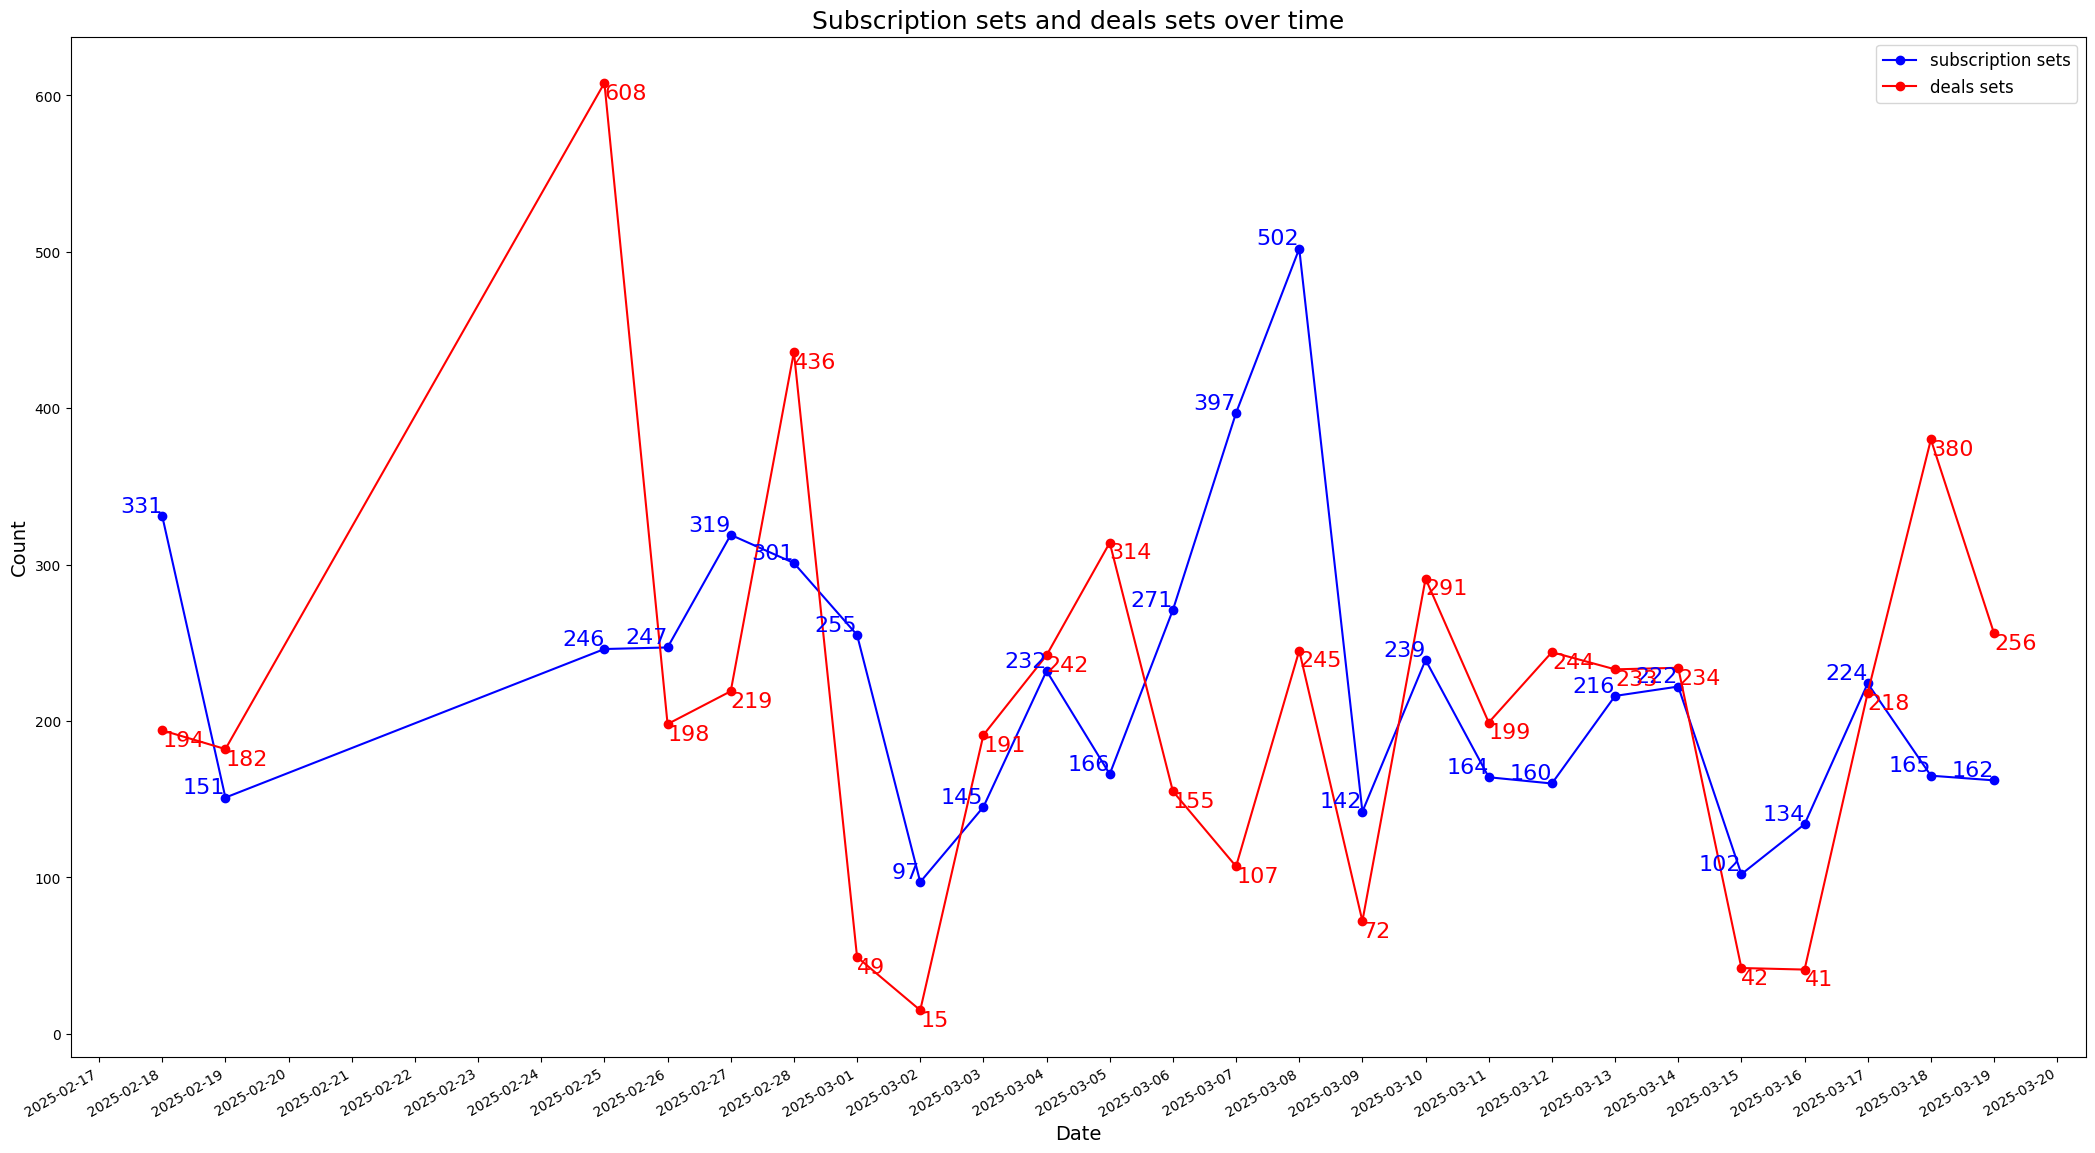
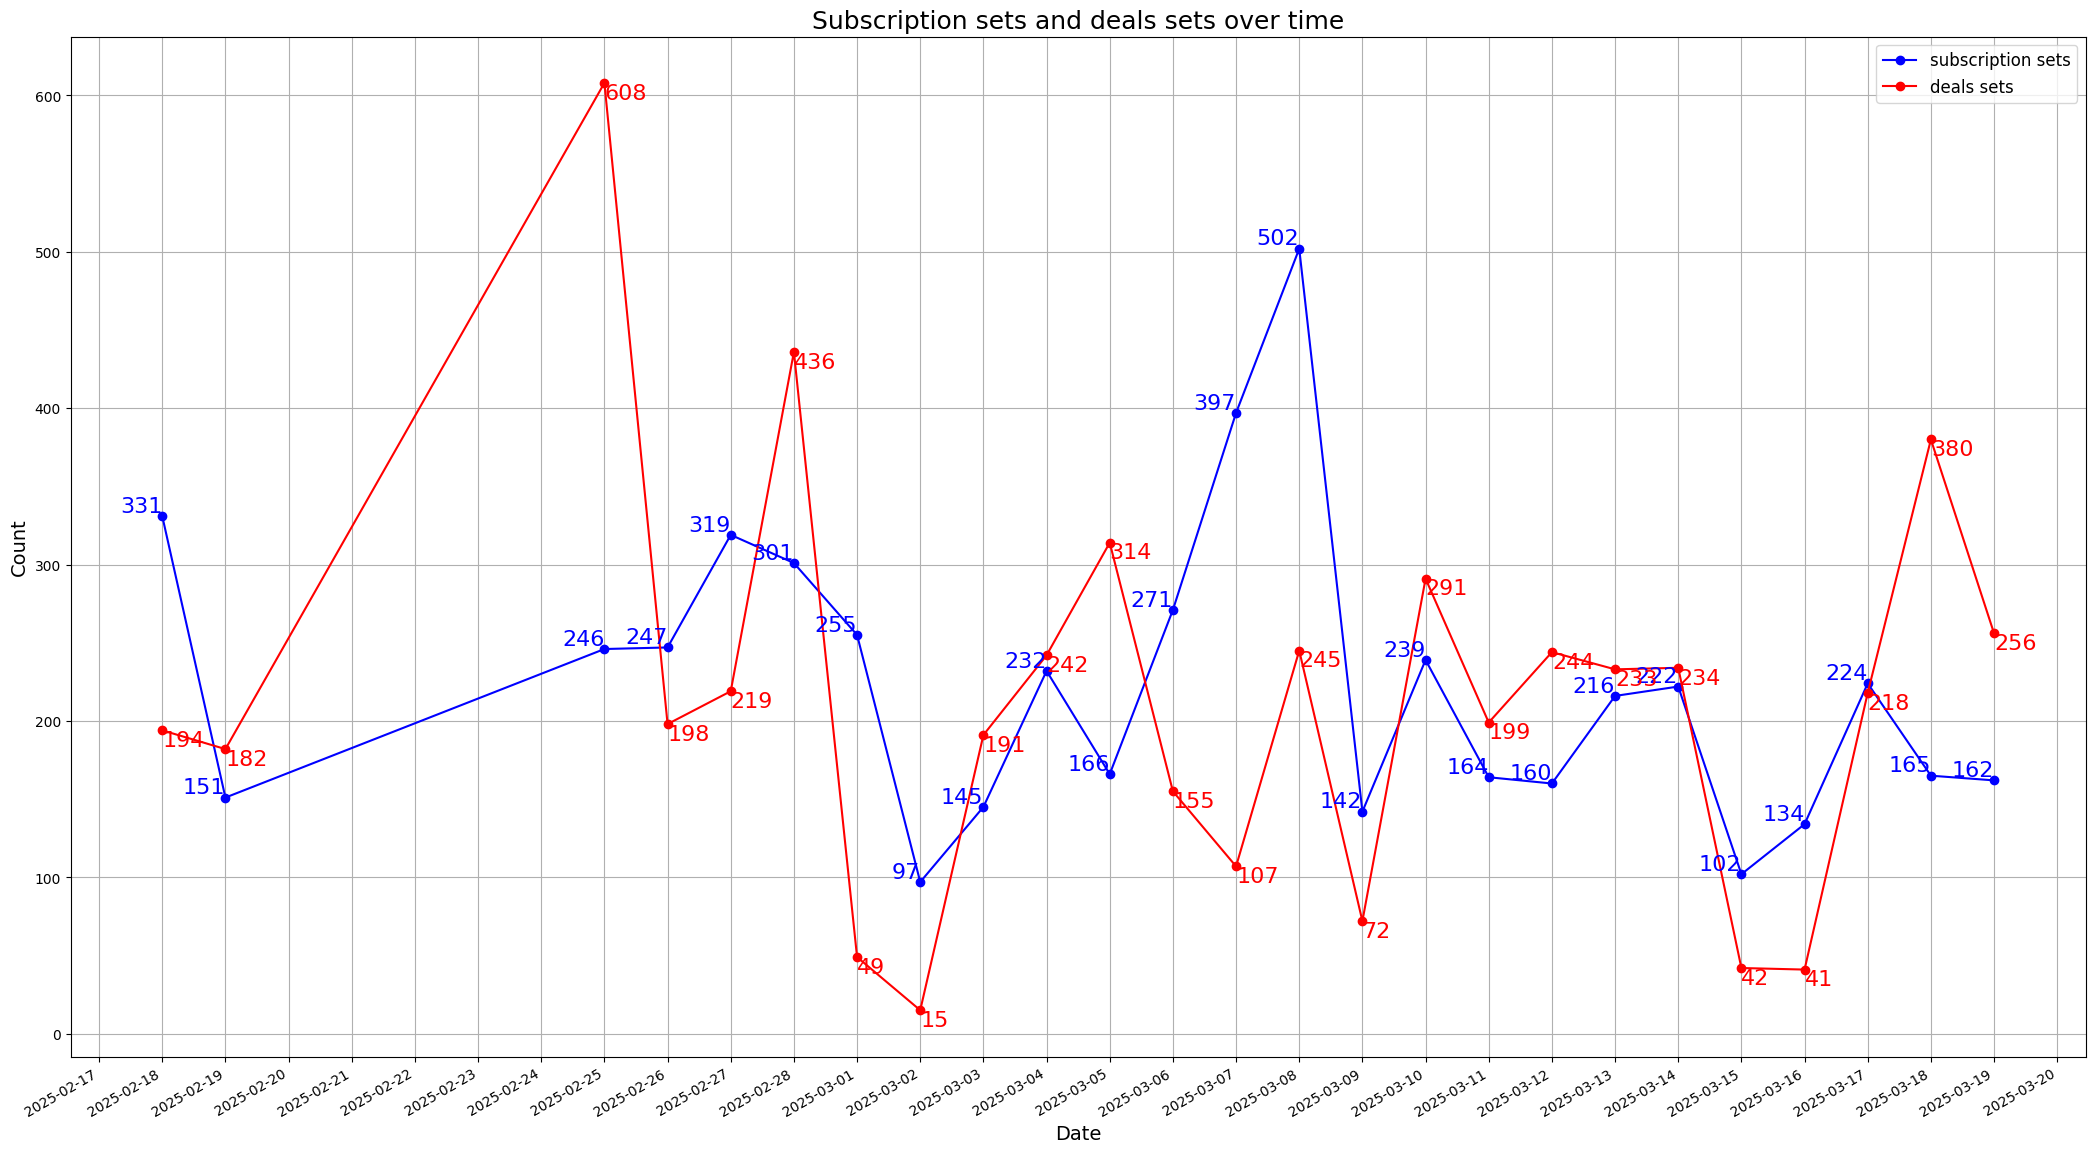
增加图片上的网格

diff --git a/house_mkt_monitor/core/generate_graph.py b/house_mkt_monitor/core/generate_graph.py
@@ -66,10 +66,10 @@ def generate_graph(db_path):
     plt.ylabel('Count', fontsize=14)
     # 添加图例
     plt.legend(fontsize=12)
+    plt.grid(visible=True)
 
     # 保存图表到本地
     plt.savefig('./report/house_mkt_data_plot.png', bbox_inches='tight')
-    plt.grid(visible=True)
     # 显示图表
     plt.show()
 

diff --git a/report.md b/report.md
@@ -287,13 +287,5 @@
 | 289 | 2025-03-19 | 2025-03-19 18:26:29.586975+08:00 | 138 | 231 | 2275 | 24109.93 | 70.02 | 91.12 | 18.07 | 24.13 |
 | 290 | 2025-03-19 | 2025-03-19 19:19:53.999423+08:00 | 146 | 238 | 2275 | 24109.93 | 70.02 | 91.15 | 18.07 | 24.16 |
 | 291 | 2025-03-19 | 2025-03-19 20:49:16.404549+08:00 | 160 | 256 | 2275 | 24109.93 | 70.02 | 91.23 | 18.07 | 24.24 |
-| 292 | 2025-03-19 | 2025-03-19 21:34:47.571140+08:00 | 160 | 256 | 2275 | 24109.93 | 70.02 | 91.23 | 18.07 | 24.24 |
-| 293 | 2025-03-19 | 2025-03-19 21:38:30.143669+08:00 | 160 | 256 | 2275 | 24109.93 | 70.02 | 91.23 | 18.07 | 24.24 |
-| 294 | 2025-03-19 | 2025-03-19 21:39:58.189756+08:00 | 160 | 256 | 2275 | 24109.93 | 70.02 | 91.23 | 18.07 | 24.24 |
-| 295 | 2025-03-19 | 2025-03-19 21:40:30.697179+08:00 | 162 | 256 | 2275 | 24109.93 | 70.02 | 91.23 | 18.07 | 24.24 |
-| 296 | 2025-03-19 | 2025-03-19 21:40:43.914676+08:00 | 162 | 256 | 2275 | 24109.93 | 70.02 | 91.23 | 18.07 | 24.24 |
-| 297 | 2025-03-19 | 2025-03-19 21:41:31.489268+08:00 | 162 | 256 | 2275 | 24109.93 | 70.02 | 91.23 | 18.07 | 24.24 |
-| 298 | 2025-03-19 | 2025-03-19 21:42:24.522883+08:00 | 162 | 256 | 2275 | 24109.93 | 70.02 | 91.23 | 18.07 | 24.24 |
-| 299 | 2025-03-19 | 2025-03-19 21:43:22.482308+08:00 | 162 | 256 | 2275 | 24109.93 | 70.02 | 91.23 | 18.07 | 24.24 |
-| 300 | 2025-03-19 | 2025-03-19 21:44:07.007872+08:00 | 162 | 256 | 2275 | 24109.93 | 70.02 | 91.23 | 18.07 | 24.24 |
-| 301 | 2025-03-19 | 2025-03-19 21:46:33.711425+08:00 | 162 | 256 | 2275 | 24109.93 | 70.02 | 91.23 | 18.07 | 24.24 |
+| 292 | 2025-03-19 | 2025-03-19 21:32:17.891851+08:00 | 160 | 256 | 2275 | 24109.93 | 70.02 | 91.23 | 18.07 | 24.24 |
+| 293 | 2025-03-19 | 2025-03-19 21:50:48.437188+08:00 | 162 | 256 | 2275 | 24109.93 | 70.02 | 91.23 | 18.07 | 24.24 |
